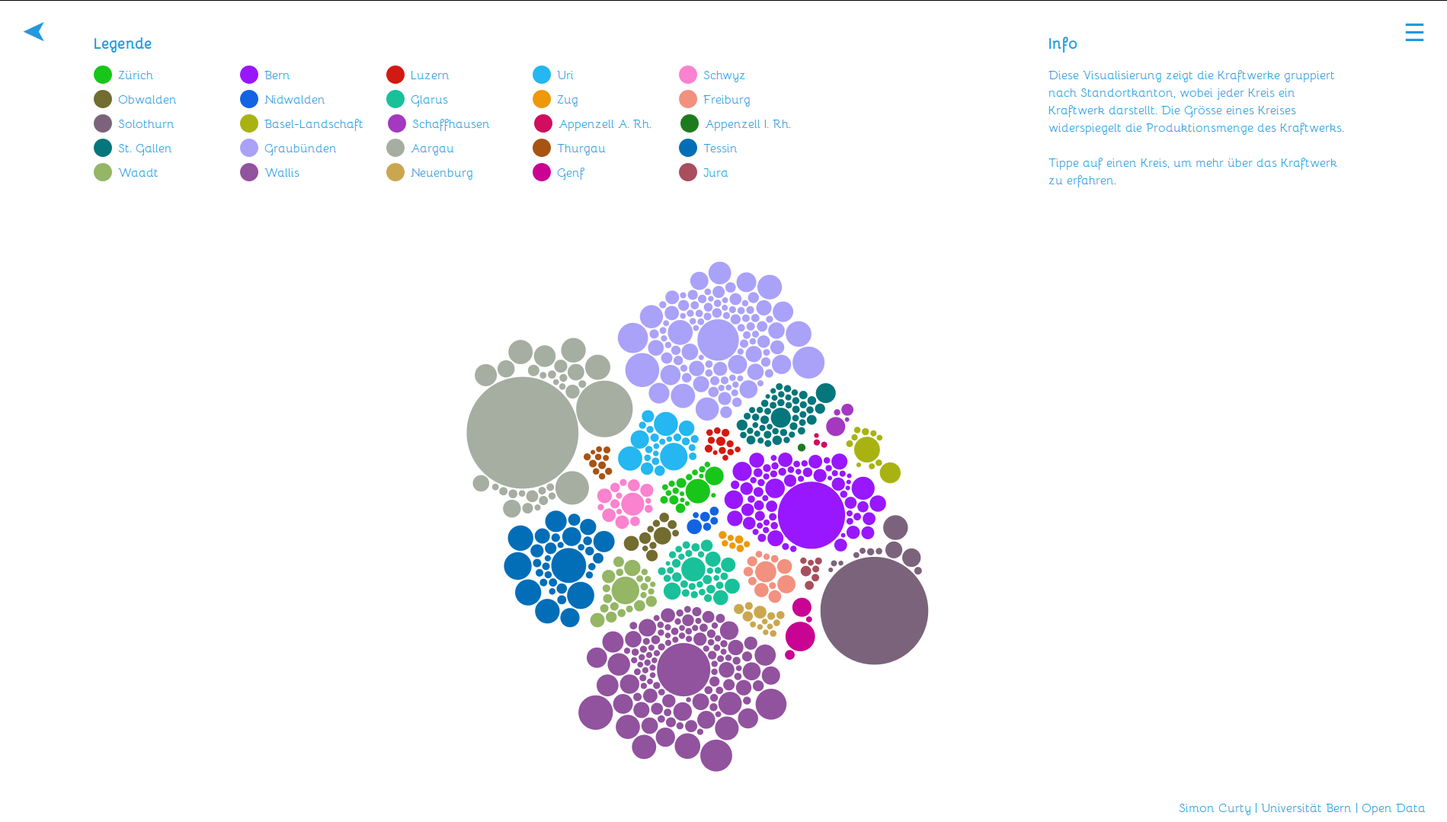
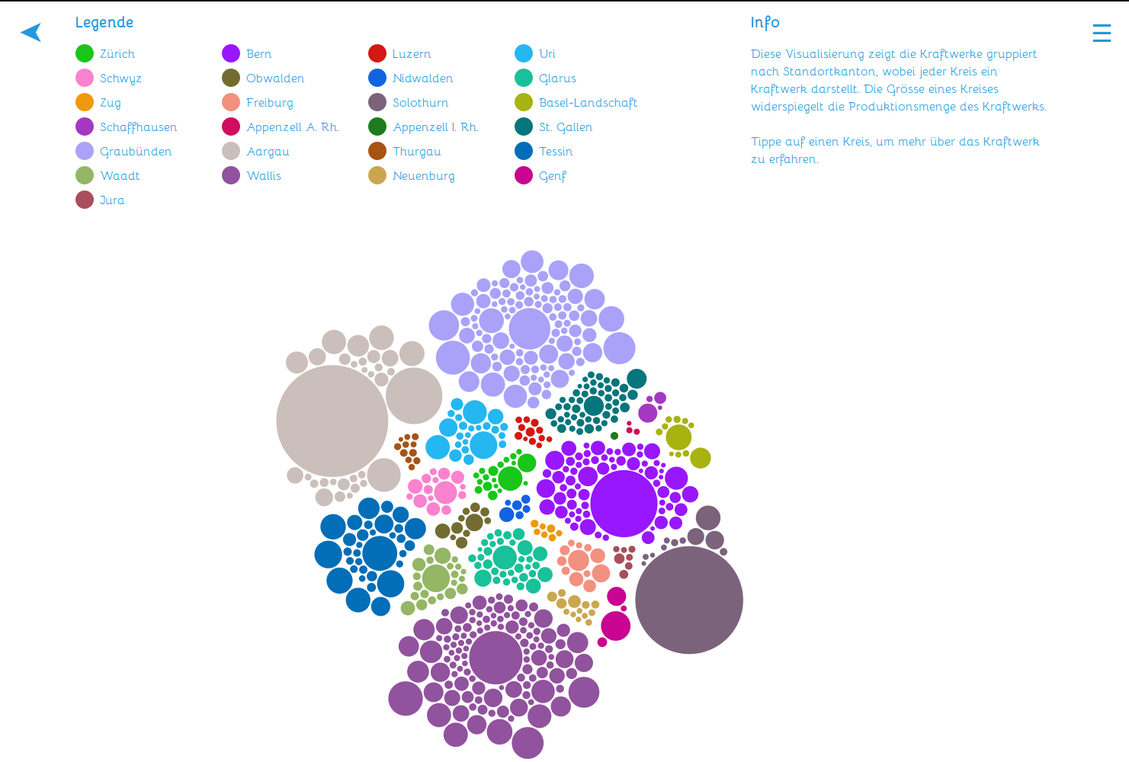
some nice colors

diff --git a/js/visualization1.min.js b/js/visualization1.min.js
@@ -1,1 +1,1 @@
-window.addEventListener("load",function(){var a=750,i=750,f=2,b=12,e=12;var c=d3.scale.ordinal().range(["#18c61a","#9817ff","#d31911","#24b7f1","#fa82ce","#736c31","#1263e2","#18c199","#ed990a","#f2917f","#7b637c","#a8b311","#a438c0","#d00d5e","#1e7b1d","#05767b","#aaa1f9","#a5aea1","#a75312","#026eb8","#94b665","#91529e","#caa74f","#c90392","#a84e5d","#6a4cf1","#1ac463","#d89ab1","#3c764d","#2dbdc5","#fb78fa","#a6a9cd","#c1383d","#8b614e","#73be38","#ff8d52","#cea37e","#b53c7e","#656d61","#436f90","#5e7304","#82b792","#fb88a3","#dd8df2","#6a5cc0","#d098d5","#ac15dc","#a4543b","#76b4cc","#6963a4","#8e620d","#77adf8","#c9a918","#99537d","#acaf7d","#7850d5","#ae3a9f","#68bd74","#e09d60","#1069cd","#d50438","#c03d17","#79b6af","#517430","#db9b94","#095cf8","#b1b045","#c0a4a9","#bc01c1","#906033","#e49c3f","#8e4db9","#bb3a64","#cb1478","#776b09","#94b743","#763eff","#1a7a3e","#617046","#915c62","#ec8dc0","#ba22ac","#437461","#913ddc","#4bbda8"]);d3.json("data/data.json",function(n,m){if(n){console.warn(n.message)}var o=m;var p=0;var l={},k={};var j=d3.scale.sqrt().domain(o.valuedomain).nice().range([3,75]);(function(){var v="#vis",s="vis1",x=[],q=[],y=0;function z(B,C){if(C.production<p||C.id==B.highestprodfacility.id){return}var A=C;A.cluster=B.abbr;A.clusterid=y;A.radius=j(C.production);q.push(A)}o.cantons.forEach(function(B){if(!B.highestprodfacility){return}var A=dataViewUtility.clone(B.highestprodfacility);A.cluster=B.abbr;A.clusterid=y;A.radius=j(B.highestprodfacility.production);x.push(A);q.push(x[y]);B.hydropowerplants.forEach(function(C){z(B,C)});B.nuclearpowerplants.forEach(function(C){z(B,C)});B.windenergyplants.forEach(function(C){z(B,C)});y++});function t(C,A){var B="https://map.geo.admin.ch/?X="+C[1]+"&Y="+C[0]+"&zoom=8&bgLayer=ch.swisstopo.pixelkarte-farbe&layers=";if(A=="Wasserkraftwerk"){B+="ch.bfe.statistik-wasserkraftanlagen"}else{if(A=="Kernkraftwerk"){B+="ch.bfe.kernkraftwerke"}else{if(A=="Windenergieanlage"){B+="ch.bfe.windenergieanlagen"}}}return B}function r(C){var B="",A=document.querySelector("#legend-cont");C.forEach(function(D){var E=c(D.clusterid);var F=dataViewUtility.getCantonByAbbr(o,D.cluster,true);var G=F.name;B+='<li><span style="background-color: '+E+';"></span>'+G+"</li>"});A.innerHTML=B}var w=(function(F){var C,B,G="#2299dd",E=document.querySelector("#descr"),A=document.querySelector("#backup-descr"),D="hidden";return function(O){if(C){d3.select(C).style("fill",B);if(C==this){C=null;E.innerHTML="";A.innerHTML="";return}}B=d3.select(this).style("fill");d3.select(this).style("fill",G);C=this;var R=t(O.coordinate,O.type);var V=dataViewUtility.getCantonByAbbr(o,O.cluster,true);var S=V.hydropowerproduction+V.nuclearenergyproduction+V.windenergyproduction;var T=Math.round((O.production/S)*1000)/10;var H=Math.round((O.production/o.annualenergyproduction)*10000)/100;H=(H<0.01)?"weniger als 0.01":H;var K=Math.round((V.windenergyproduction/S)*1000)/10;var P=Math.round((V.hydropowerproduction/S)*1000)/10;var M=Math.round((V.nuclearenergyproduction/S)*1000)/10;var L="<br><strong>Kanton "+V.name+"</strong><br>Ganzjährliche Produktion von<br>Wasserkraft: <strong>"+V.hydropowerproduction+"</strong> GWh<br>Kernenergie: <strong>"+V.nuclearenergyproduction+"</strong> GWh<br>Windenergie: <strong>"+V.windenergyproduction+"</strong> GWh<br>Total: <strong>"+S+"</strong> GWh<br><br><strong>"+O.type+" "+O.name+"</strong><br>Produktion: "+O.production+" GWh<br>"+Math.round((O.production/S)*1000)/10+"% der kantonalen Produktion<br>";var J="Das "+O.type+" <strong>"+O.name+"</strong> deckt "+T+"% der Produktion des Kt "+V.name+" (Wind: "+K+"%, Wasser: "+P+"%, KKW: "+M+"%) oder "+H+'% der Schweizer Energieproduktion.<br><br><a target="_blank" href="'+R+'">&#10148; Zeige auf Karte (extern)</a><br><label id="ext"> Ausführlich</label><br><div id="descr-ext">'+L+"</div>";E.innerHTML=A.innerHTML=J;var N=document.querySelectorAll("#ext");var U=document.querySelectorAll("#descr-ext");for(var Q=0;Q<U.length;Q++){if(D=="visible"){U[Q].style.visibility="visible"}else{U[Q].style.visibility="hidden"}}for(var I=0;I<N.length;I++){N[I].onclick=function(){for(var X=0;X<U.length;X++){var W=U[X].style.visibility;if(W=="visible"){U[X].style.visibility=D="hidden"}else{U[X].style.visibility=D="visible"}}}}}})();var u=(function(A){return function(B){return B.type+" "+B.name+"<br>"+B.production+" GWh"}})();d(v,s,q,x,w,u);r(x)})()});function d(r,s,k,v,t,o){d3.layout.pack().sort(null).size([a,i]).children(function(x){return x.values}).value(function(x){return x.radius*x.radius}).nodes({values:d3.nest().key(function(x){return x.clusterid}).entries(k)});var l=d3.layout.force().nodes(k).size([a,i]).gravity(0.01).charge(0).on("tick",m).start();var w=d3.tip().attr("class","d3-tip").offset([-15,0]).html(o);var q=(function(x){return function(A){var y=d3.select(this).attr("cx"),z=140;if(y<z){w.direction("e").offset([0,10])}else{if(y>window.innerWidth-z){w.direction("w").offset([0,-10])}else{w.direction("n").offset([-15,0])}}w.show(A)}})();var n=d3.select(r).append("svg").classed(s,true).attr("width",a).attr("height",i).attr("preserveAspectRatio","xMinYMin meet").attr("viewBox","0 0 "+a+" "+i);n.call(w);var j=n.selectAll("circle."+s).data(k).enter().append("circle").classed(s,true).attr("r",function(x){return x.radius}).style("fill",function(x){return c(x.clusterid)}).call(l.drag).on("mousedown.drag",null).on("click",t);if(window.innerWidth>=500){j.on("mouseover",q).on("mouseout",w.hide)}var u=window.innerWidth,p;window.addEventListener("resize",function(){p=window.innerWidth;if(window.innerWidth<500){j.on("mouseover",null).on("mouseout",null)}else{if(u<500&&p>=500){j.on("mouseover",q).on("mouseout",w.hide)}}u=p});setTimeout(function(){l.on("tick",null).stop()},20000);function m(x){j.each(g(10*x.alpha*x.alpha,v)).each(h(0.5,k)).attr("cx",function(y){return y.x}).attr("cy",function(y){return y.y})}}function g(k,j){return function(s){var n=j[s.clusterid],p=1;if(n===s){n={x:a/2,y:i/2,radius:-s.radius};p=0.1*Math.sqrt(s.radius)}var m=s.x-n.x,t=s.y-n.y,o=Math.sqrt(m*m+t*t),q=s.radius+n.radius;if(o!=q){o=(o-q)/o*k*p;s.x-=m*=o;s.y-=t*=o;n.x+=m;n.y+=t}}}function h(l,k){var j=d3.geom.quadtree(k);return function(s){var q=s.radius+e+Math.max(f,b),n=s.x-q,m=s.x+q,p=s.y-q,o=s.y+q;j.visit(function(D,v,B,u,A){if(D.point&&(D.point!==s)){var C=s.x-D.point.x,z=s.y-D.point.y,w=Math.sqrt(C*C+z*z),t=s.radius+D.point.radius+(s.cluster===D.point.cluster?f:b);if(w<t){w=(w-t)/w*l;s.x-=C*=w;s.y-=z*=w;D.point.x+=C;D.point.y+=z}}return v>m||u<n||B>o||A<p})}}});
+window.addEventListener("load",function(){var a=750,i=750,f=2,b=12,e=12;var c=d3.scale.ordinal().range(["#18c61a","#9817ff","#d31911","#24b7f1","#fa82ce","#736c31","#1263e2","#18c199","#ed990a","#f2917f","#7b637c","#a8b311","#a438c0","#d00d5e","#1e7b1d","#05767b","#aaa1f9","#CABFBB","#a75312","#026eb8","#94b665","#91529e","#caa74f","#c90392","#a84e5d"]);d3.json("data/data.json",function(n,m){if(n){console.warn(n.message)}var o=m;var p=0;var l={},k={};var j=d3.scale.sqrt().domain(o.valuedomain).nice().range([3,75]);(function(){var v="#vis",s="vis1",x=[],q=[],y=0;function z(B,C){if(C.production<p||C.id==B.highestprodfacility.id){return}var A=C;A.cluster=B.abbr;A.clusterid=y;A.radius=j(C.production);q.push(A)}o.cantons.forEach(function(B){if(!B.highestprodfacility){return}var A=dataViewUtility.clone(B.highestprodfacility);A.cluster=B.abbr;A.clusterid=y;A.radius=j(B.highestprodfacility.production);x.push(A);q.push(x[y]);B.hydropowerplants.forEach(function(C){z(B,C)});B.nuclearpowerplants.forEach(function(C){z(B,C)});B.windenergyplants.forEach(function(C){z(B,C)});y++});function t(C,A){var B="https://map.geo.admin.ch/?X="+C[1]+"&Y="+C[0]+"&zoom=8&bgLayer=ch.swisstopo.pixelkarte-farbe&layers=";if(A=="Wasserkraftwerk"){B+="ch.bfe.statistik-wasserkraftanlagen"}else{if(A=="Kernkraftwerk"){B+="ch.bfe.kernkraftwerke"}else{if(A=="Windenergieanlage"){B+="ch.bfe.windenergieanlagen"}}}return B}function r(C){var B="",A=document.querySelector("#legend-cont");C.forEach(function(D){var E=c(D.clusterid);var F=dataViewUtility.getCantonByAbbr(o,D.cluster,true);var G=F.name;B+='<li><span style="background-color: '+E+';"></span>'+G+"</li>"});A.innerHTML=B}var w=(function(F){var C,B,G="#2299dd",E=document.querySelector("#descr"),A=document.querySelector("#backup-descr"),D="hidden";return function(O){if(C){d3.select(C).style("fill",B);if(C==this){C=null;E.innerHTML="";A.innerHTML="";return}}B=d3.select(this).style("fill");d3.select(this).style("fill",G);C=this;var R=t(O.coordinate,O.type);var V=dataViewUtility.getCantonByAbbr(o,O.cluster,true);var S=V.hydropowerproduction+V.nuclearenergyproduction+V.windenergyproduction;var T=Math.round((O.production/S)*1000)/10;var H=Math.round((O.production/o.annualenergyproduction)*10000)/100;H=(H<0.01)?"weniger als 0.01":H;var K=Math.round((V.windenergyproduction/S)*1000)/10;var P=Math.round((V.hydropowerproduction/S)*1000)/10;var M=Math.round((V.nuclearenergyproduction/S)*1000)/10;var L="<br><strong>Kanton "+V.name+"</strong><br>Ganzjährliche Produktion von<br>Wasserkraft: <strong>"+V.hydropowerproduction+"</strong> GWh<br>Kernenergie: <strong>"+V.nuclearenergyproduction+"</strong> GWh<br>Windenergie: <strong>"+V.windenergyproduction+"</strong> GWh<br>Total: <strong>"+S+"</strong> GWh<br><br><strong>"+O.type+" "+O.name+"</strong><br>Produktion: "+O.production+" GWh<br>"+Math.round((O.production/S)*1000)/10+"% der kantonalen Produktion<br>";var J="Das "+O.type+" <strong>"+O.name+"</strong> deckt "+T+"% der Produktion des Kt "+V.name+" (Wind: "+K+"%, Wasser: "+P+"%, KKW: "+M+"%) oder "+H+'% der Schweizer Energieproduktion.<br><br><a target="_blank" href="'+R+'">&#10148; Zeige auf Karte (extern)</a><br><label id="ext"> Ausführlich</label><br><div id="descr-ext">'+L+"</div>";E.innerHTML=A.innerHTML=J;var N=document.querySelectorAll("#ext");var U=document.querySelectorAll("#descr-ext");for(var Q=0;Q<U.length;Q++){if(D=="visible"){U[Q].style.visibility="visible"}else{U[Q].style.visibility="hidden"}}for(var I=0;I<N.length;I++){N[I].onclick=function(){for(var X=0;X<U.length;X++){var W=U[X].style.visibility;if(W=="visible"){U[X].style.visibility=D="hidden"}else{U[X].style.visibility=D="visible"}}}}}})();var u=(function(A){return function(B){return B.type+" "+B.name+"<br>"+B.production+" GWh"}})();d(v,s,q,x,w,u);r(x)})()});function d(r,s,k,v,t,o){d3.layout.pack().sort(null).size([a,i]).children(function(x){return x.values}).value(function(x){return x.radius*x.radius}).nodes({values:d3.nest().key(function(x){return x.clusterid}).entries(k)});var l=d3.layout.force().nodes(k).size([a,i]).gravity(0.01).charge(0).on("tick",m).start();var w=d3.tip().attr("class","d3-tip").offset([-15,0]).html(o);var q=(function(x){return function(A){var y=d3.select(this).attr("cx"),z=140;if(y<z){w.direction("e").offset([0,10])}else{if(y>window.innerWidth-z){w.direction("w").offset([0,-10])}else{w.direction("n").offset([-15,0])}}w.show(A)}})();var n=d3.select(r).append("svg").classed(s,true).attr("width",a).attr("height",i).attr("preserveAspectRatio","xMinYMin meet").attr("viewBox","0 0 "+a+" "+i);n.call(w);var j=n.selectAll("circle."+s).data(k).enter().append("circle").classed(s,true).attr("r",function(x){return x.radius}).style("fill",function(x){return c(x.clusterid)}).call(l.drag).on("mousedown.drag",null).on("click",t);if(window.innerWidth>=500){j.on("mouseover",q).on("mouseout",w.hide)}var u=window.innerWidth,p;window.addEventListener("resize",function(){p=window.innerWidth;if(window.innerWidth<500){j.on("mouseover",null).on("mouseout",null)}else{if(u<500&&p>=500){j.on("mouseover",q).on("mouseout",w.hide)}}u=p});setTimeout(function(){l.on("tick",null).stop()},20000);function m(x){j.each(g(10*x.alpha*x.alpha,v)).each(h(0.5,k)).attr("cx",function(y){return y.x}).attr("cy",function(y){return y.y})}}function g(k,j){return function(s){var n=j[s.clusterid],p=1;if(n===s){n={x:a/2,y:i/2,radius:-s.radius};p=0.1*Math.sqrt(s.radius)}var m=s.x-n.x,t=s.y-n.y,o=Math.sqrt(m*m+t*t),q=s.radius+n.radius;if(o!=q){o=(o-q)/o*k*p;s.x-=m*=o;s.y-=t*=o;n.x+=m;n.y+=t}}}function h(l,k){var j=d3.geom.quadtree(k);return function(s){var q=s.radius+e+Math.max(f,b),n=s.x-q,m=s.x+q,p=s.y-q,o=s.y+q;j.visit(function(D,v,B,u,A){if(D.point&&(D.point!==s)){var C=s.x-D.point.x,z=s.y-D.point.y,w=Math.sqrt(C*C+z*z),t=s.radius+D.point.radius+(s.cluster===D.point.cluster?f:b);if(w<t){w=(w-t)/w*l;s.x-=C*=w;s.y-=z*=w;D.point.x+=C;D.point.y+=z}}return v>m||u<n||B>o||A<p})}}});

diff --git a/js/visualization2.min.js b/js/visualization2.min.js
@@ -1,1 +1,1 @@
-window.addEventListener("load",function(){var a=1000,i=1000,f=2,b=12,e=12;var c=d3.scale.ordinal().range(["#18c61a","#9817ff","#d31911","#24b7f1","#fa82ce","#736c31","#1263e2","#18c199","#ed990a","#f2917f","#7b637c","#a8b311","#a438c0","#d00d5e","#1e7b1d","#05767b","#aaa1f9","#a5aea1","#a75312","#026eb8","#94b665","#91529e","#caa74f","#c90392","#a84e5d","#6a4cf1","#1ac463","#d89ab1","#3c764d","#2dbdc5","#fb78fa","#a6a9cd","#c1383d","#8b614e","#73be38","#ff8d52","#cea37e","#b53c7e","#656d61","#436f90","#5e7304","#82b792","#fb88a3","#dd8df2","#6a5cc0","#d098d5","#ac15dc","#a4543b","#76b4cc","#6963a4","#8e620d","#77adf8","#c9a918","#99537d","#acaf7d","#7850d5","#ae3a9f","#68bd74","#e09d60","#1069cd","#d50438","#c03d17","#79b6af","#517430","#db9b94","#095cf8","#b1b045","#c0a4a9","#bc01c1","#906033","#e49c3f","#8e4db9","#bb3a64","#cb1478","#776b09","#94b743","#763eff","#1a7a3e","#617046","#915c62","#ec8dc0","#ba22ac","#437461","#913ddc","#4bbda8"]);d3.json("data/data.json",function(n,m){if(n){console.warn(n.message)}var o=m;var p=0;var l={},k={};var j=d3.scale.sqrt().domain(o.valuedomain).nice().range([3,75]);(function(){var x="#vis",u="vis2",A=[],r=[],B=0,t=3;function C(E,G){var F=G;F.cluster=E.id;F.clusterid=B;F.radius=j(G.production);r.push(F);if(F.id==E.id){A.push(F)}}var z=dataViewUtility.createJointArray(o,"hydropowerplants"),D=dataViewUtility.createJointArray(o,"windenergyplants"),q=dataViewUtility.createJointArray(o,"nuclearpowerplants");z.forEach(function(E){C(o.globalHPFacilityHydro,E)});B++;D.forEach(function(E){C(o.globalHPFacilityWind,E)});B++;q.forEach(function(E){C(o.globalHPFacilityNuclear,E)});function v(G,E){var F="https://map.geo.admin.ch/?X="+G[1]+"&Y="+G[0]+"&zoom=8&bgLayer=ch.swisstopo.pixelkarte-farbe&layers=";if(E=="Wasserkraftwerk"){F+="ch.bfe.statistik-wasserkraftanlagen"}else{if(E=="Kernkraftwerk"){F+="ch.bfe.kernkraftwerke"}else{if(E=="Windenergieanlage"){F+="ch.bfe.windenergieanlagen"}}}return F}function s(G){var F="",E=document.querySelector("#legend-cont");G.forEach(function(H){var I=c(H.clusterid);var J=H.type;F+='<li><span style="background-color: '+I+';"></span>'+J+"</li>"});E.innerHTML=F}var y=(function(J){var G,F,K="#2299dd",I=document.querySelector("#descr"),E=document.querySelector("#backup-descr"),H="hidden";return function(T){if(G){d3.select(G).style("fill",F);if(G==this){G=null;I.innerHTML="";E.innerHTML="";return}}F=d3.select(this).style("fill");d3.select(this).style("fill",K);G=this;var W="";var O;if(T.type=="Wasserkraftwerk"){W="Wasserkraft";O=o.globalhydropowerproduction}else{if(T.type=="Kernkraftwerk"){W="Kernkraft";O=o.globalnuclearenergyprodution}else{if(T.type=="Windenergieanlage"){W="Windkraft";O=o.globalwindenergyproduction}}}var Y=dataViewUtility.getCantonByPlantId(o,T.id,true);var N=Math.round((O/o.annualenergyproduction)*1000)/10;var S=Math.round((T.production/O)*10000)/100;var L=Math.round((T.production/o.annualenergyproduction)*10000)/100;S=(S<1)?Math.round((T.production/O)*100000)/1000:S;L=(L<0.01)?"weniger als 0.01":L;var V=v(T.coordinate,T.type);var Q="<br><strong>"+W+"</strong><br>Ganzjährliche Produktion von "+W+":<br><strong>"+O+"</strong> GWh<br>"+N+"% der schweizerischen Energieproduktion (Net "+o.asat+")<br><br><strong>"+T.name+"</strong><br>Kanton "+Y.name+"<br>Produktion: <strong>"+T.production+"</strong> GWh<br>"+S+"% der Gesamtproduktion von "+W;var P="Das "+T.type+" <strong>"+T.name+"</strong> liefert "+L+'% der Schweizer Energieproduktion<br><a target="_blank" href="'+V+'">&#10148; Zeige auf Karte (extern)</a><br><label id="ext"> Ausführlich</label><br><div id="descr-ext">'+Q+"</div>";I.innerHTML=E.innerHTML=P;var R=document.querySelectorAll("#ext");var X=document.querySelectorAll("#descr-ext");for(var U=0;U<X.length;U++){if(H=="visible"){X[U].style.visibility="visible"}else{X[U].style.visibility="hidden"}}for(var M=0;M<R.length;M++){R[M].onclick=function(){for(var aa=0;aa<X.length;aa++){var Z=X[aa].style.visibility;if(Z=="visible"){X[aa].style.visibility=H="hidden"}else{X[aa].style.visibility=H="visible"}}}}}})();var w=(function(E){return function(F){return F.type+" "+F.name+"<br>"+F.production+" GWh"}})();d(x,u,r,A,y,w);s(A)})()});function d(r,s,k,v,t,o){d3.layout.pack().sort(null).size([a,i]).children(function(x){return x.value}).value(function(x){return x.radius*x.radius}).nodes({values:d3.nest().key(function(x){return x.clusterid}).entries(k)});var l=d3.layout.force().nodes(k).size([a,i]).gravity(0.01).charge(0).on("tick",m).start();var w=d3.tip().attr("class","d3-tip").offset([-15,0]).html(o);var q=(function(x){return function(A){var y=d3.select(this).attr("cx"),z=120;if(y<z){w.direction("e").offset([0,10])}else{if(y>window.innerWidth-z){w.direction("w").offset([0,-10])}else{w.direction("n").offset([-15,0])}}w.show(A)}})();var n=d3.select(r).append("svg").classed(s,true).attr("width",a).attr("height",i).attr("preserveAspectRatio","xMinYMin meet").attr("viewBox","0 0 "+a+" "+i);n.call(w);var j=n.selectAll("circle."+s).data(k).enter().append("circle").classed(s,true).attr("r",function(x){return x.radius}).style("fill",function(x){return c(x.clusterid)}).call(l.drag).on("mousedown.drag",null).on("click",t);if(window.innerWidth>=500){j.on("mouseover",q).on("mouseout",w.hide)}var u=window.innerWidth,p;window.addEventListener("resize",function(){p=window.innerWidth;if(window.innerWidth<500){j.on("mouseover",null).on("mouseout",null)}else{if(u<500&&p>=500){j.on("mouseover",q).on("mouseout",w.hide)}}u=p});setTimeout(function(){l.on("tick",null).stop()},40000);function m(x){j.each(g(10*x.alpha*x.alpha,v)).each(h(0.5,k)).attr("cx",function(y){return y.x}).attr("cy",function(y){return y.y})}}function g(k,j){return function(s){var n=j[s.clusterid],p=1;if(n===s){n={x:a/2,y:i/2,radius:-s.radius};p=0.1*Math.sqrt(s.radius)}var m=s.x-n.x,t=s.y-n.y,o=Math.sqrt(m*m+t*t),q=s.radius+n.radius;if(o!=q){o=(o-q)/o*k*p;s.x-=m*=o;s.y-=t*=o;n.x+=m;n.y+=t}}}function h(l,k){var j=d3.geom.quadtree(k);return function(s){var q=s.radius+e+Math.max(f,b),n=s.x-q,m=s.x+q,p=s.y-q,o=s.y+q;j.visit(function(D,v,B,u,A){if(D.point&&(D.point!==s)){var C=s.x-D.point.x,z=s.y-D.point.y,w=Math.sqrt(C*C+z*z),t=s.radius+D.point.radius+(s.cluster===D.point.cluster?f:b);if(w<t){w=(w-t)/w*l;s.x-=C*=w;s.y-=z*=w;D.point.x+=C;D.point.y+=z}}return v>m||u<n||B>o||A<p})}}});
+window.addEventListener("load",function(){var a=1000,i=1000,f=2,b=12,e=12;var c=d3.scale.ordinal().range(["#4F6DB2","#78286B","#ED4239"]);d3.json("data/data.json",function(n,m){if(n){console.warn(n.message)}var o=m;var p=0;var l={},k={};var j=d3.scale.sqrt().domain(o.valuedomain).nice().range([3,75]);(function(){var x="#vis",u="vis2",A=[],r=[],B=0,t=3;function C(E,G){var F=G;F.cluster=E.id;F.clusterid=B;F.radius=j(G.production);r.push(F);if(F.id==E.id){A.push(F)}}var z=dataViewUtility.createJointArray(o,"hydropowerplants"),D=dataViewUtility.createJointArray(o,"windenergyplants"),q=dataViewUtility.createJointArray(o,"nuclearpowerplants");z.forEach(function(E){C(o.globalHPFacilityHydro,E)});B++;D.forEach(function(E){C(o.globalHPFacilityWind,E)});B++;q.forEach(function(E){C(o.globalHPFacilityNuclear,E)});function v(G,E){var F="https://map.geo.admin.ch/?X="+G[1]+"&Y="+G[0]+"&zoom=8&bgLayer=ch.swisstopo.pixelkarte-farbe&layers=";if(E=="Wasserkraftwerk"){F+="ch.bfe.statistik-wasserkraftanlagen"}else{if(E=="Kernkraftwerk"){F+="ch.bfe.kernkraftwerke"}else{if(E=="Windenergieanlage"){F+="ch.bfe.windenergieanlagen"}}}return F}function s(G){var F="",E=document.querySelector("#legend-cont");G.forEach(function(H){var I=c(H.clusterid);var J=H.type;F+='<li><span style="background-color: '+I+';"></span>'+J+"</li>"});E.innerHTML=F}var y=(function(J){var G,F,K="#2299dd",I=document.querySelector("#descr"),E=document.querySelector("#backup-descr"),H="hidden";return function(T){if(G){d3.select(G).style("fill",F);if(G==this){G=null;I.innerHTML="";E.innerHTML="";return}}F=d3.select(this).style("fill");d3.select(this).style("fill",K);G=this;var W="";var O;if(T.type=="Wasserkraftwerk"){W="Wasserkraft";O=o.globalhydropowerproduction}else{if(T.type=="Kernkraftwerk"){W="Kernkraft";O=o.globalnuclearenergyprodution}else{if(T.type=="Windenergieanlage"){W="Windkraft";O=o.globalwindenergyproduction}}}var Y=dataViewUtility.getCantonByPlantId(o,T.id,true);var N=Math.round((O/o.annualenergyproduction)*1000)/10;var S=Math.round((T.production/O)*10000)/100;var L=Math.round((T.production/o.annualenergyproduction)*10000)/100;S=(S<1)?Math.round((T.production/O)*100000)/1000:S;L=(L<0.01)?"weniger als 0.01":L;var V=v(T.coordinate,T.type);var Q="<br><strong>"+W+"</strong><br>Ganzjährliche Produktion von "+W+":<br><strong>"+O+"</strong> GWh<br>"+N+"% der schweizerischen Energieproduktion (Net "+o.asat+")<br><br><strong>"+T.name+"</strong><br>Kanton "+Y.name+"<br>Produktion: <strong>"+T.production+"</strong> GWh<br>"+S+"% der Gesamtproduktion von "+W;var P="Das "+T.type+" <strong>"+T.name+"</strong> liefert "+L+'% der Schweizer Energieproduktion<br><a target="_blank" href="'+V+'">&#10148; Zeige auf Karte (extern)</a><br><label id="ext"> Ausführlich</label><br><div id="descr-ext">'+Q+"</div>";I.innerHTML=E.innerHTML=P;var R=document.querySelectorAll("#ext");var X=document.querySelectorAll("#descr-ext");for(var U=0;U<X.length;U++){if(H=="visible"){X[U].style.visibility="visible"}else{X[U].style.visibility="hidden"}}for(var M=0;M<R.length;M++){R[M].onclick=function(){for(var aa=0;aa<X.length;aa++){var Z=X[aa].style.visibility;if(Z=="visible"){X[aa].style.visibility=H="hidden"}else{X[aa].style.visibility=H="visible"}}}}}})();var w=(function(E){return function(F){return F.type+" "+F.name+"<br>"+F.production+" GWh"}})();d(x,u,r,A,y,w);s(A)})()});function d(r,s,k,v,t,o){d3.layout.pack().sort(null).size([a,i]).children(function(x){return x.value}).value(function(x){return x.radius*x.radius}).nodes({values:d3.nest().key(function(x){return x.clusterid}).entries(k)});var l=d3.layout.force().nodes(k).size([a,i]).gravity(0.01).charge(0).on("tick",m).start();var w=d3.tip().attr("class","d3-tip").offset([-15,0]).html(o);var q=(function(x){return function(A){var y=d3.select(this).attr("cx"),z=120;if(y<z){w.direction("e").offset([0,10])}else{if(y>window.innerWidth-z){w.direction("w").offset([0,-10])}else{w.direction("n").offset([-15,0])}}w.show(A)}})();var n=d3.select(r).append("svg").classed(s,true).attr("width",a).attr("height",i).attr("preserveAspectRatio","xMinYMin meet").attr("viewBox","0 0 "+a+" "+i);n.call(w);var j=n.selectAll("circle."+s).data(k).enter().append("circle").classed(s,true).attr("r",function(x){return x.radius}).style("fill",function(x){return c(x.clusterid)}).call(l.drag).on("mousedown.drag",null).on("click",t);if(window.innerWidth>=500){j.on("mouseover",q).on("mouseout",w.hide)}var u=window.innerWidth,p;window.addEventListener("resize",function(){p=window.innerWidth;if(window.innerWidth<500){j.on("mouseover",null).on("mouseout",null)}else{if(u<500&&p>=500){j.on("mouseover",q).on("mouseout",w.hide)}}u=p});setTimeout(function(){l.on("tick",null).stop()},40000);function m(x){j.each(g(10*x.alpha*x.alpha,v)).each(h(0.5,k)).attr("cx",function(y){return y.x}).attr("cy",function(y){return y.y})}}function g(k,j){return function(s){var n=j[s.clusterid],p=1;if(n===s){n={x:a/2,y:i/2,radius:-s.radius};p=0.1*Math.sqrt(s.radius)}var m=s.x-n.x,t=s.y-n.y,o=Math.sqrt(m*m+t*t),q=s.radius+n.radius;if(o!=q){o=(o-q)/o*k*p;s.x-=m*=o;s.y-=t*=o;n.x+=m;n.y+=t}}}function h(l,k){var j=d3.geom.quadtree(k);return function(s){var q=s.radius+e+Math.max(f,b),n=s.x-q,m=s.x+q,p=s.y-q,o=s.y+q;j.visit(function(D,v,B,u,A){if(D.point&&(D.point!==s)){var C=s.x-D.point.x,z=s.y-D.point.y,w=Math.sqrt(C*C+z*z),t=s.radius+D.point.radius+(s.cluster===D.point.cluster?f:b);if(w<t){w=(w-t)/w*l;s.x-=C*=w;s.y-=z*=w;D.point.x+=C;D.point.y+=z}}return v>m||u<n||B>o||A<p})}}});

diff --git a/js/visualization1.js b/js/visualization1.js
@@ -16,17 +16,23 @@ window.addEventListener('load', function () {
     //    '#000000', '#E8423F', '#E2001A', '#FFD72E', '#E8423F', '#010202', '#009933', '#FFD72E', '#248BCC', '#16A74E',
     //    '#E8423F', '#16A74E', '#E8423F', '#16A74E', '#FFD134', '#E8423F']
 
+    // var color = d3.scale.ordinal().range(["#18c61a", "#9817ff", "#d31911", "#24b7f1", "#fa82ce", "#736c31", "#1263e2",
+    //     "#18c199", "#ed990a", "#f2917f", "#7b637c", "#a8b311", "#a438c0", "#d00d5e", "#1e7b1d", "#05767b", "#aaa1f9",
+    //     "#a5aea1", "#a75312", "#026eb8", "#94b665", "#91529e", "#caa74f", "#c90392", "#a84e5d", "#6a4cf1", "#1ac463",
+    //     "#d89ab1", "#3c764d", "#2dbdc5", "#fb78fa", "#a6a9cd", "#c1383d", "#8b614e", "#73be38", "#ff8d52", "#cea37e",
+    //     "#b53c7e", "#656d61", "#436f90", "#5e7304", "#82b792", "#fb88a3", "#dd8df2", "#6a5cc0", "#d098d5", "#ac15dc",
+    //     "#a4543b", "#76b4cc", "#6963a4", "#8e620d", "#77adf8", "#c9a918", "#99537d", "#acaf7d", "#7850d5", "#ae3a9f",
+    //     "#68bd74", "#e09d60", "#1069cd", "#d50438", "#c03d17", "#79b6af", "#517430", "#db9b94", "#095cf8", "#b1b045",
+    //     "#c0a4a9", "#bc01c1", "#906033", "#e49c3f", "#8e4db9", "#bb3a64", "#cb1478", "#776b09", "#94b743", "#763eff",
+    //     "#1a7a3e", "#617046", "#915c62", "#ec8dc0", "#ba22ac", "#437461", "#913ddc", "#4bbda8"]);
+
+    // color = d3.scale.ordinal().range(['#0066CC', '#E7423F', '#9817ff', "#24b7f1", "#fa82ce", "#736c31", '#437461',
+    //     "#18c199", "#ed990a", "#f2917f", "#7F5680", "#a8b311", '#143367', "#d00d5e", "#1e7b1d", "#05767b", "#aaa1f9",
+    //     '#CABFBB', "#a75312", '#830700', "#94b665", "#91529e", "#caa74f", "#c90392", "#a84e5d", "#6a4cf1", "#1ac463"]);
+
     var color = d3.scale.ordinal().range(["#18c61a", "#9817ff", "#d31911", "#24b7f1", "#fa82ce", "#736c31", "#1263e2",
         "#18c199", "#ed990a", "#f2917f", "#7b637c", "#a8b311", "#a438c0", "#d00d5e", "#1e7b1d", "#05767b", "#aaa1f9",
-        "#a5aea1", "#a75312", "#026eb8", "#94b665", "#91529e", "#caa74f", "#c90392", "#a84e5d", "#6a4cf1", "#1ac463",
-        "#d89ab1", "#3c764d", "#2dbdc5", "#fb78fa", "#a6a9cd", "#c1383d", "#8b614e", "#73be38", "#ff8d52", "#cea37e",
-        "#b53c7e", "#656d61", "#436f90", "#5e7304", "#82b792", "#fb88a3", "#dd8df2", "#6a5cc0", "#d098d5", "#ac15dc",
-        "#a4543b", "#76b4cc", "#6963a4", "#8e620d", "#77adf8", "#c9a918", "#99537d", "#acaf7d", "#7850d5", "#ae3a9f",
-        "#68bd74", "#e09d60", "#1069cd", "#d50438", "#c03d17", "#79b6af", "#517430", "#db9b94", "#095cf8", "#b1b045",
-        "#c0a4a9", "#bc01c1", "#906033", "#e49c3f", "#8e4db9", "#bb3a64", "#cb1478", "#776b09", "#94b743", "#763eff",
-        "#1a7a3e", "#617046", "#915c62", "#ec8dc0", "#ba22ac", "#437461", "#913ddc", "#4bbda8"]);
-
-
+        "#CABFBB", "#a75312", "#026eb8", "#94b665", "#91529e", "#caa74f", "#c90392", "#a84e5d"]);
 
     d3.json('data/data.json', function (err, json) {
 

diff --git a/js/visualization2.js b/js/visualization2.js
@@ -10,21 +10,8 @@ window.addEventListener('load', function(){
         clusterPadding = 12, // separation between different-color circles
         maxRadius = 12;
 
-    // Reihenfolge der Kantone:
-    // ZH, BE, LU, UR, SZ, OW, NW, GL, ZG, FR, SO, (BS), BL, SH, AR, AI, SG, GR, AG, TG, TI, VD, VS, NE, GE, JU
-    //['#0066CC', '#E7423F', '#248BCC', '#FFD72E', '#E7423F', '#DD3322', '#E7423F', '#E8423F', '#268BCC',
-    //    '#000000', '#E8423F', '#E2001A', '#FFD72E', '#E8423F', '#010202', '#009933', '#FFD72E', '#248BCC', '#16A74E',
-    //    '#E8423F', '#16A74E', '#E8423F', '#16A74E', '#FFD134', '#E8423F']
-
-    var color = d3.scale.ordinal().range(["#18c61a", "#9817ff", "#d31911", "#24b7f1", "#fa82ce", "#736c31", "#1263e2",
-        "#18c199", "#ed990a", "#f2917f", "#7b637c", "#a8b311", "#a438c0", "#d00d5e", "#1e7b1d", "#05767b", "#aaa1f9",
-        "#a5aea1", "#a75312", "#026eb8", "#94b665", "#91529e", "#caa74f", "#c90392", "#a84e5d", "#6a4cf1", "#1ac463",
-        "#d89ab1", "#3c764d", "#2dbdc5", "#fb78fa", "#a6a9cd", "#c1383d", "#8b614e", "#73be38", "#ff8d52", "#cea37e",
-        "#b53c7e", "#656d61", "#436f90", "#5e7304", "#82b792", "#fb88a3", "#dd8df2", "#6a5cc0", "#d098d5", "#ac15dc",
-        "#a4543b", "#76b4cc", "#6963a4", "#8e620d", "#77adf8", "#c9a918", "#99537d", "#acaf7d", "#7850d5", "#ae3a9f",
-        "#68bd74", "#e09d60", "#1069cd", "#d50438", "#c03d17", "#79b6af", "#517430", "#db9b94", "#095cf8", "#b1b045",
-        "#c0a4a9", "#bc01c1", "#906033", "#e49c3f", "#8e4db9", "#bb3a64", "#cb1478", "#776b09", "#94b743", "#763eff",
-        "#1a7a3e", "#617046", "#915c62", "#ec8dc0", "#ba22ac", "#437461", "#913ddc", "#4bbda8"]);
+    // Reihenfolge: Wasser, Wind, Nuclear
+    var color = d3.scale.ordinal().range(['#4F6DB2', '#78286B', '#ED4239']);
 
     d3.json('data/data.json', function (err, json) {
 
